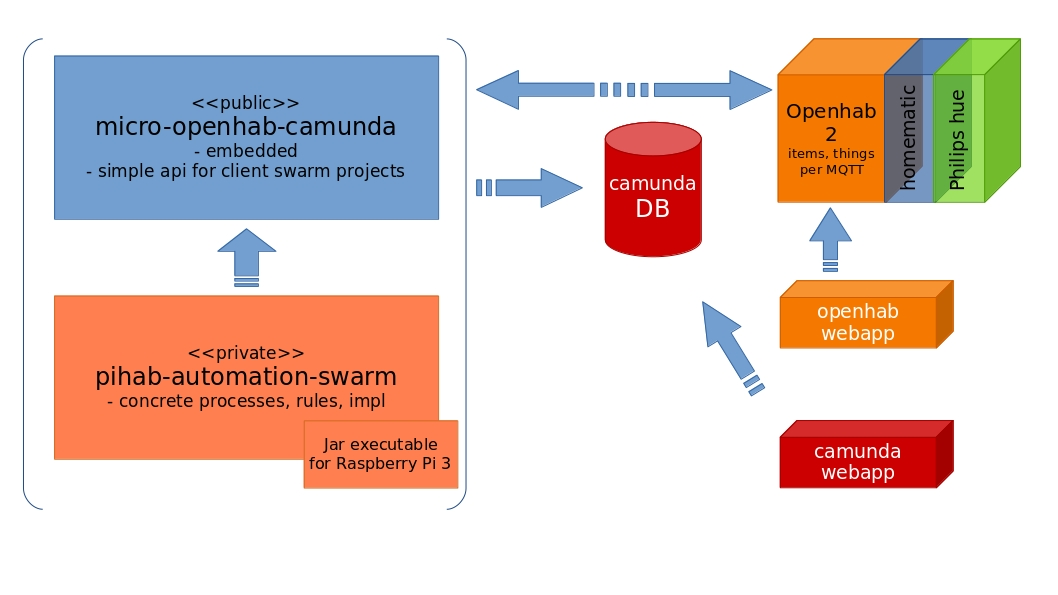
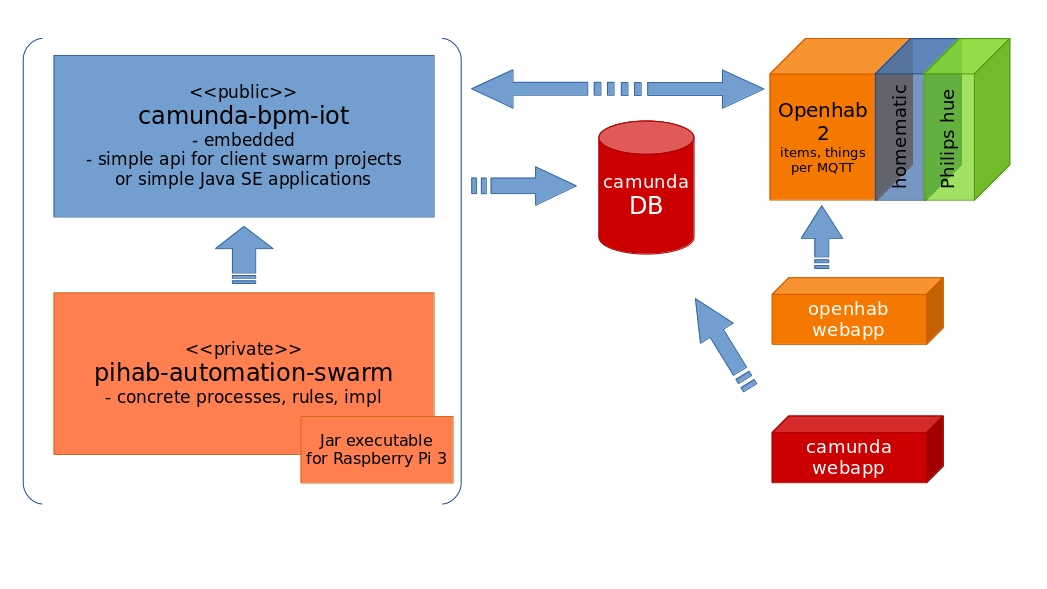
renamed project to final name camunda-bpm-iot

diff --git a/src/main/java/de/chrthms/bpm/iot/delegates/MicroJavaDelegate.java b/src/main/java/de/chrthms/bpm/iot/delegates/MicroJavaDelegate.java
@@ -19,22 +19,22 @@
  * under the License.
  */
 
-package de.chrthms.iot.delegates.impl;
+package de.chrthms.bpm.iot.delegates;
 
-import de.chrthms.iot.delegates.MicroDelegateExecution;
-import de.chrthms.iot.delegates.impl.MicroDelegateExecutionImpl;
+import de.chrthms.bpm.iot.delegates.impl.MicroDelegateExecutionImpl;
 import org.camunda.bpm.engine.delegate.DelegateExecution;
 import org.camunda.bpm.engine.delegate.JavaDelegate;
 
 /**
  * Created by christian on 25.05.17.
  */
-public abstract class MicroJavaDelegateImpl implements JavaDelegate {
+public interface MicroJavaDelegate extends JavaDelegate {
 
-    public abstract void execute(MicroDelegateExecution execution) throws Exception;
+    void execute(MicroDelegateExecution execution) throws Exception;
 
     @Override
-    public void execute(DelegateExecution execution) throws Exception {
+    default void execute(DelegateExecution execution) throws Exception {
+        System.out.println("DEFAULT EXECUTE IMPL INSIDE THE INTERFACE TESTOR...");
         execute(new MicroDelegateExecutionImpl(execution));
     }
 }

diff --git a/src/main/java/de/chrthms/bpm/iot/impl/MicroProcessEngineFactoryImpl.java b/src/main/java/de/chrthms/bpm/iot/impl/MicroProcessEngineFactoryImpl.java
@@ -19,25 +19,15 @@
  * under the License.
  */
 
-package de.chrthms.iot.impl;
+package de.chrthms.bpm.iot.impl;
 
-import de.chrthms.iot.MicroProcessEngine;
-import de.chrthms.iot.MicroProcessEngineFactory;
-import de.chrthms.iot.enums.MqttQoS;
-import de.chrthms.iot.exceptions.MicroEngineRuntimeException;
-import de.chrthms.iot.platform.MicroBpmPlatform;
-import org.camunda.bpm.BpmPlatform;
+import de.chrthms.bpm.iot.MicroProcessEngine;
+import de.chrthms.bpm.iot.MicroProcessEngineFactory;
+import de.chrthms.bpm.iot.exceptions.MicroEngineRuntimeException;
 import org.camunda.bpm.container.RuntimeContainerDelegate;
 import org.camunda.bpm.engine.ProcessEngine;
 import org.camunda.bpm.engine.ProcessEngineConfiguration;
 import org.camunda.bpm.engine.ProcessEngines;
-import org.eclipse.paho.client.mqttv3.MqttAsyncClient;
-import org.eclipse.paho.client.mqttv3.MqttClient;
-import org.eclipse.paho.client.mqttv3.MqttConnectOptions;
-
-import java.time.LocalDate;
-import java.time.LocalDateTime;
-import java.util.Date;
 
 /**
  * Created by christian on 18.05.17.

diff --git a/src/main/java/de/chrthms/bpm/iot/exceptions/MicroMqttRuntimeException.java b/src/main/java/de/chrthms/bpm/iot/exceptions/MicroMqttRuntimeException.java
@@ -19,22 +19,19 @@
  * under the License.
  */
 
-package de.chrthms.iot.delegates;
-
-import de.chrthms.iot.delegates.impl.MicroDelegateExecutionImpl;
-import org.camunda.bpm.engine.delegate.DelegateExecution;
-import org.camunda.bpm.engine.delegate.JavaDelegate;
+package de.chrthms.bpm.iot.exceptions;
 
 /**
- * Created by christian on 25.05.17.
+ * Created by christian on 29.05.17.
  */
-public interface MicroJavaDelegate extends JavaDelegate {
+public class MicroMqttRuntimeException extends RuntimeException {
 
-    void execute(MicroDelegateExecution execution) throws Exception;
-
-    @Override
-    default void execute(DelegateExecution execution) throws Exception {
-        System.out.println("DEFAULT EXECUTE IMPL INSIDE THE INTERFACE TESTOR...");
-        execute(new MicroDelegateExecutionImpl(execution));
+    public MicroMqttRuntimeException(String message) {
+        super(message);
     }
+
+    public MicroMqttRuntimeException(String message, Throwable cause) {
+        super(message, cause);
+    }
+
 }

diff --git a/src/main/java/de/chrthms/bpm/iot/delegates/impl/MicroJavaDelegateImpl.java b/src/main/java/de/chrthms/bpm/iot/delegates/impl/MicroJavaDelegateImpl.java
@@ -19,19 +19,21 @@
  * under the License.
  */
 
-package de.chrthms.iot.exceptions;
+package de.chrthms.bpm.iot.delegates.impl;
+
+import de.chrthms.bpm.iot.delegates.MicroDelegateExecution;
+import org.camunda.bpm.engine.delegate.DelegateExecution;
+import org.camunda.bpm.engine.delegate.JavaDelegate;
 
 /**
- * Created by christian on 29.05.17.
+ * Created by christian on 25.05.17.
  */
-public class MicroMqttRuntimeException extends RuntimeException {
+public abstract class MicroJavaDelegateImpl implements JavaDelegate {
 
-    public MicroMqttRuntimeException(String message) {
-        super(message);
+    public abstract void execute(MicroDelegateExecution execution) throws Exception;
+
+    @Override
+    public void execute(DelegateExecution execution) throws Exception {
+        execute(new MicroDelegateExecutionImpl(execution));
     }
-
-    public MicroMqttRuntimeException(String message, Throwable cause) {
-        super(message, cause);
-    }
-
 }

diff --git a/src/main/java/de/chrthms/bpm/iot/impl/MicroProcessEngineImpl.java b/src/main/java/de/chrthms/bpm/iot/impl/MicroProcessEngineImpl.java
@@ -19,13 +19,13 @@
  * under the License.
  */
 
-package de.chrthms.iot.impl;
+package de.chrthms.bpm.iot.impl;
 
-import de.chrthms.iot.MicroProcessEngine;
-import de.chrthms.iot.enums.MqttQoS;
-import de.chrthms.iot.exceptions.MicroEngineRuntimeException;
-import de.chrthms.iot.services.MicroMqttService;
-import de.chrthms.iot.services.impl.MicroMqttServiceImpl;
+import de.chrthms.bpm.iot.MicroProcessEngine;
+import de.chrthms.bpm.iot.enums.MqttQoS;
+import de.chrthms.bpm.iot.exceptions.MicroEngineRuntimeException;
+import de.chrthms.bpm.iot.services.MicroMqttService;
+import de.chrthms.bpm.iot.services.impl.MicroMqttServiceImpl;
 import org.camunda.bpm.engine.*;
 import org.camunda.bpm.engine.repository.Deployment;
 import org.eclipse.paho.client.mqttv3.MqttAsyncClient;

diff --git a/src/main/java/de/chrthms/bpm/iot/delegates/impl/MicroDelegateExecutionImpl.java b/src/main/java/de/chrthms/bpm/iot/delegates/impl/MicroDelegateExecutionImpl.java
@@ -19,12 +19,12 @@
  * under the License.
  */
 
-package de.chrthms.iot.delegates.impl;
+package de.chrthms.bpm.iot.delegates.impl;
 
-import de.chrthms.iot.MicroProcessEngine;
-import de.chrthms.iot.delegates.MicroDelegateExecution;
-import de.chrthms.iot.platform.MicroBpmPlatform;
-import de.chrthms.iot.services.MicroMqttService;
+import de.chrthms.bpm.iot.MicroProcessEngine;
+import de.chrthms.bpm.iot.delegates.MicroDelegateExecution;
+import de.chrthms.bpm.iot.platform.MicroBpmPlatform;
+import de.chrthms.bpm.iot.services.MicroMqttService;
 import org.camunda.bpm.engine.ProcessEngineServices;
 import org.camunda.bpm.engine.delegate.DelegateExecution;
 import org.camunda.bpm.engine.variable.VariableMap;

diff --git a/src/main/java/de/chrthms/bpm/iot/platform/MicroBpmPlatform.java b/src/main/java/de/chrthms/bpm/iot/platform/MicroBpmPlatform.java
@@ -19,14 +19,13 @@
  * under the License.
  */
 
-package de.chrthms.iot.platform;
+package de.chrthms.bpm.iot.platform;
 
-import de.chrthms.iot.MicroProcessEngine;
-import de.chrthms.iot.exceptions.MicroEngineRuntimeException;
+import de.chrthms.bpm.iot.MicroProcessEngine;
+import de.chrthms.bpm.iot.exceptions.MicroEngineRuntimeException;
 import org.camunda.bpm.BpmPlatform;
 import org.camunda.bpm.engine.ProcessEngine;
 
-import javax.swing.text.html.Option;
 import java.util.Optional;
 
 /**

diff --git a/src/main/java/de/chrthms/bpm/iot/services/impl/MicroMqttCommand.java b/src/main/java/de/chrthms/bpm/iot/services/impl/MicroMqttCommand.java
@@ -1,7 +1,7 @@
-package de.chrthms.iot.services.impl;
+package de.chrthms.bpm.iot.services.impl;
 
-import de.chrthms.iot.enums.MqttQoS;
-import de.chrthms.iot.exceptions.MicroMqttRuntimeException;
+import de.chrthms.bpm.iot.exceptions.MicroMqttRuntimeException;
+import de.chrthms.bpm.iot.enums.MqttQoS;
 import org.eclipse.paho.client.mqttv3.MqttClient;
 import org.eclipse.paho.client.mqttv3.MqttConnectOptions;
 import org.eclipse.paho.client.mqttv3.MqttException;

diff --git a/src/main/java/de/chrthms/bpm/iot/services/MicroMqttService.java b/src/main/java/de/chrthms/bpm/iot/services/MicroMqttService.java
@@ -1,8 +1,8 @@
-package de.chrthms.iot.services;
+package de.chrthms.bpm.iot.services;
 
-import de.chrthms.iot.services.impl.MicroMqttCommand;
-import de.chrthms.iot.enums.MqttQoS;
-import de.chrthms.iot.exceptions.MicroMqttRuntimeException;
+import de.chrthms.bpm.iot.exceptions.MicroMqttRuntimeException;
+import de.chrthms.bpm.iot.services.impl.MicroMqttCommand;
+import de.chrthms.bpm.iot.enums.MqttQoS;
 
 /**
  * Created by christian on 28.05.17.

diff --git a/src/main/java/de/chrthms/bpm/iot/services/impl/MicroMqttServiceImpl.java b/src/main/java/de/chrthms/bpm/iot/services/impl/MicroMqttServiceImpl.java
@@ -1,8 +1,8 @@
-package de.chrthms.iot.services.impl;
+package de.chrthms.bpm.iot.services.impl;
 
-import de.chrthms.iot.enums.MqttQoS;
-import de.chrthms.iot.exceptions.MicroMqttRuntimeException;
-import de.chrthms.iot.services.MicroMqttService;
+import de.chrthms.bpm.iot.enums.MqttQoS;
+import de.chrthms.bpm.iot.exceptions.MicroMqttRuntimeException;
+import de.chrthms.bpm.iot.services.MicroMqttService;
 
 /**
  * Created by christian on 29.05.17.

diff --git a/src/main/java/de/chrthms/bpm/iot/MicroProcessEngine.java b/src/main/java/de/chrthms/bpm/iot/MicroProcessEngine.java
@@ -19,10 +19,10 @@
  * under the License.
  */
 
-package de.chrthms.iot;
+package de.chrthms.bpm.iot;
 
-import de.chrthms.iot.exceptions.MicroEngineRuntimeException;
-import de.chrthms.iot.services.MicroMqttService;
+import de.chrthms.bpm.iot.exceptions.MicroEngineRuntimeException;
+import de.chrthms.bpm.iot.services.MicroMqttService;
 import org.camunda.bpm.engine.ProcessEngine;
 import org.camunda.bpm.engine.repository.Deployment;
 

diff --git a/src/main/java/de/chrthms/bpm/iot/MicroProcessEngineFactory.java b/src/main/java/de/chrthms/bpm/iot/MicroProcessEngineFactory.java
@@ -19,11 +19,10 @@
  * under the License.
  */
 
-package de.chrthms.iot;
+package de.chrthms.bpm.iot;
 
-import de.chrthms.iot.enums.MqttQoS;
-import de.chrthms.iot.exceptions.MicroEngineRuntimeException;
-import de.chrthms.iot.impl.MicroProcessEngineFactoryImpl;
+import de.chrthms.bpm.iot.exceptions.MicroEngineRuntimeException;
+import de.chrthms.bpm.iot.impl.MicroProcessEngineFactoryImpl;
 
 /**
  * Created by christian on 18.05.17.
